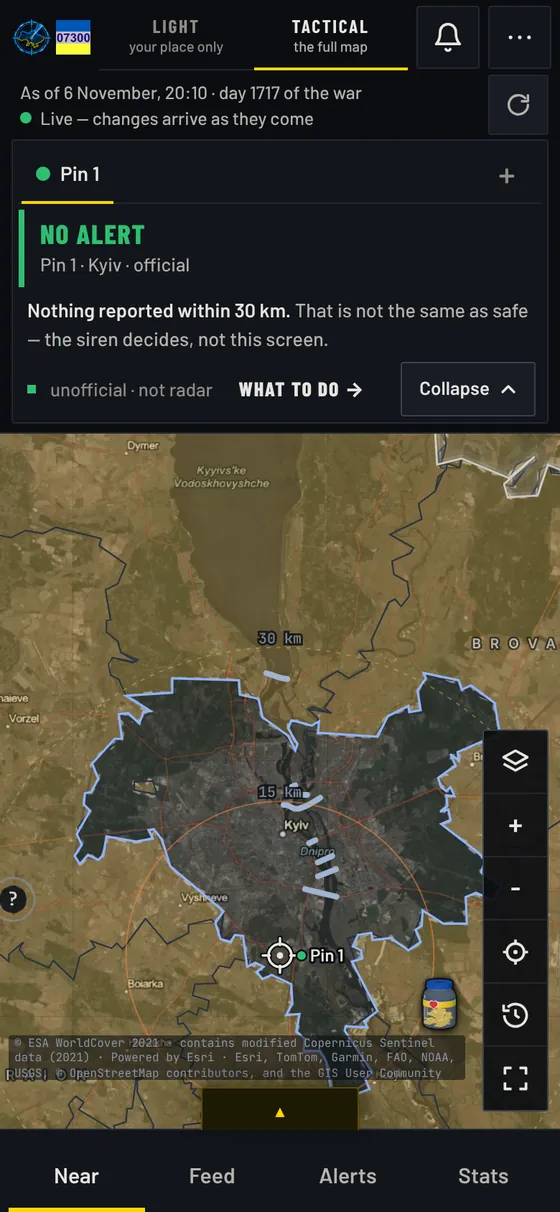
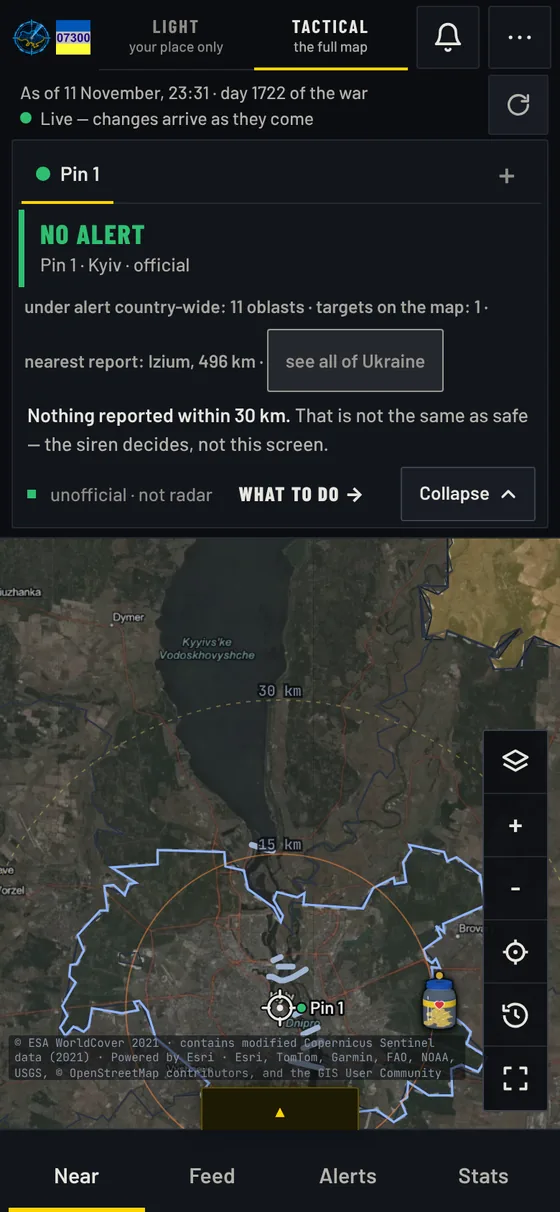
Heimdall: fresh captures with fully loaded map tiles

diff --git a/index.html b/index.html
@@ -575,7 +575,7 @@
         <a class="open-app" href="https://heimdall.com.ua/m"><span class="dot"></span><span class="txt"><b>Open the app in your browser</b><small>heimdall.com.ua · no install, any phone</small></span><svg class="arr" viewBox="0 0 24 24" fill="none" stroke="currentColor" stroke-width="2" stroke-linecap="round" stroke-linejoin="round"><path d="M7 17L17 7M9 7h8v8"/></svg></a>
         <a class="open-app tg" href="https://t.me/Heimdall07300_bot"><svg class="tgi" viewBox="0 0 24 24" fill="currentColor" aria-hidden="true"><path d="M21.9 4.3 18.8 19c-.2 1-.8 1.3-1.7.8l-4.7-3.5-2.3 2.2c-.3.3-.5.5-1 .5l.3-4.8 8.7-7.9c.4-.3-.1-.5-.6-.2L6.7 12.9 2.1 11.5c-1-.3-1-1 .2-1.5L20.6 3c.8-.3 1.6.2 1.3 1.3z"/></svg><span class="txt"><b>Telegram bot @Heimdall07300_bot</b><small>Complements the app, inside Telegram</small></span><svg class="arr" viewBox="0 0 24 24" fill="none" stroke="currentColor" stroke-width="2" stroke-linecap="round" stroke-linejoin="round"><path d="M7 17L17 7M9 7h8v8"/></svg></a>
       </div></div>
-    <div class="hm-wide"><figure class="shot dark"><div class="frame"><i></i><i></i><i></i></div><img src="heimdall.webp" alt="Live during an alert, 6 November 2026, 20:50. Each icon is a reported jet drone, pointed along its heading, with a count when several fly together. Left: every target with its distance from your pin. Right: the public posts they come from." width="1600" height="1000" loading="lazy"><figcaption>Live during an alert, 6 November 2026, 20:50. Each icon is a reported jet drone, pointed along its heading, with a count when several fly together. Left: every target with its distance from your pin. Right: the public posts they come from.</figcaption></figure></div>
+    <div class="hm-wide"><figure class="shot dark"><div class="frame"><i></i><i></i><i></i></div><img src="heimdall.webp" alt="Live on 11 November 2026, 23:30. A reported drone north-west of Kyiv, pointed along its heading, with the areas under alert shaded on the map. Left: every target with its distance from your pin. Right: the public posts they come from." width="1600" height="1000" loading="lazy"><figcaption>Live on 11 November 2026, 23:30. A reported drone north-west of Kyiv, pointed along its heading, with the areas under alert shaded on the map. Left: every target with its distance from your pin. Right: the public posts they come from.</figcaption></figure></div>
     <h3 class="hm-trio-h">On your phone, at 3 a.m.</h3>
     <div class="hm-trio"><figure class="phone hm-f"><img src="hm-calm.webp" alt="A quiet night. One glance: nothing is reported within 30 km of your pin. And a reminder that this is not the same as safe. The siren decides, not the screen." width="560" height="1212" loading="lazy"><figcaption><b>A quiet night</b><span>One glance: nothing is reported within 30 km of your pin. And a reminder that this is not the same as safe. The siren decides, not the screen.</span></figcaption></figure><figure class="phone hm-f"><img src="heimdall-mobile.webp" alt="During an alert. Reported drones and missiles appear on the map with their heading, inside distance rings of 15, 30 and 60 km around your pin." width="520" height="1058" loading="lazy"><figcaption><b>During an alert</b><span>Reported drones and missiles appear on the map with their heading, inside distance rings of 15, 30 and 60 km around your pin.</span></figcaption></figure><figure class="phone hm-f"><img src="hm-evidence-p.webp" alt="Tap any mark. Heading, age, position accuracy, the original post, and how each part of the sentence was read. Evidence, not guesses." width="840" height="1709" loading="lazy"><figcaption><b>Tap any mark</b><span>Heading, age, position accuracy, the original post, and how each part of the sentence was read. Evidence, not guesses.</span></figcaption></figure></div>
     <div class="stats"><div class="stat"><b>3,531</b><span>device-days in the last 30 days</span></div><div class="stat"><b>4,809</b><span>app opens in the last 30 days</span></div><div class="stat"><b>96</b><span>devices on a typical day</span></div></div>
